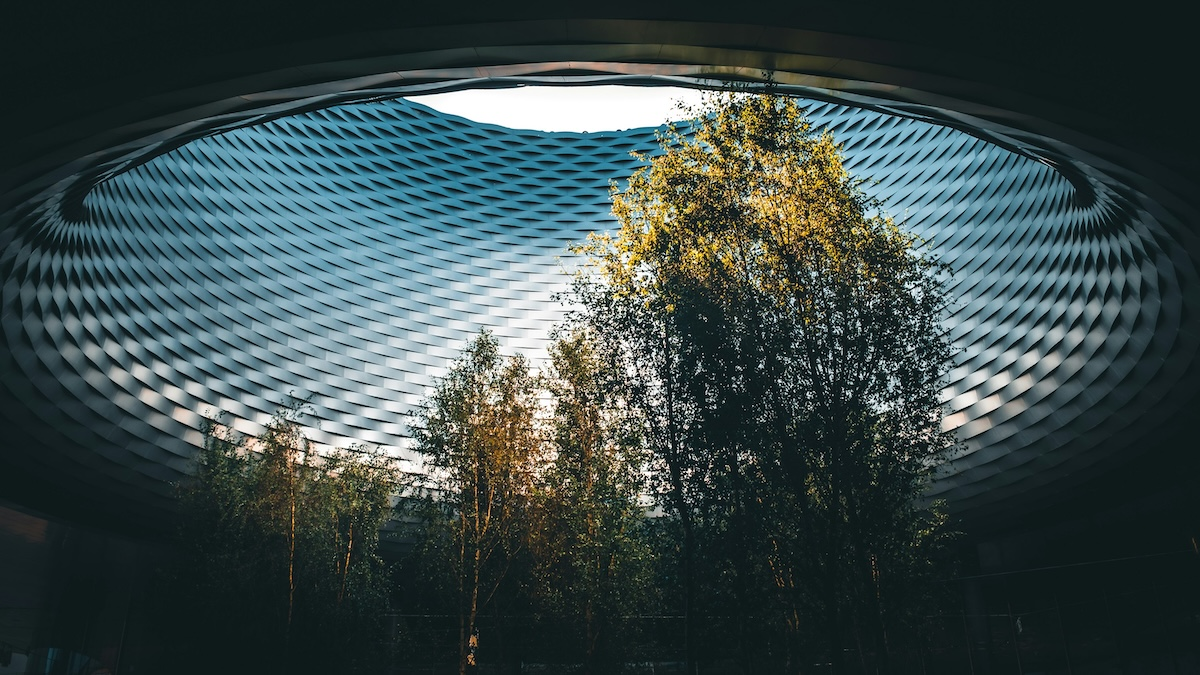
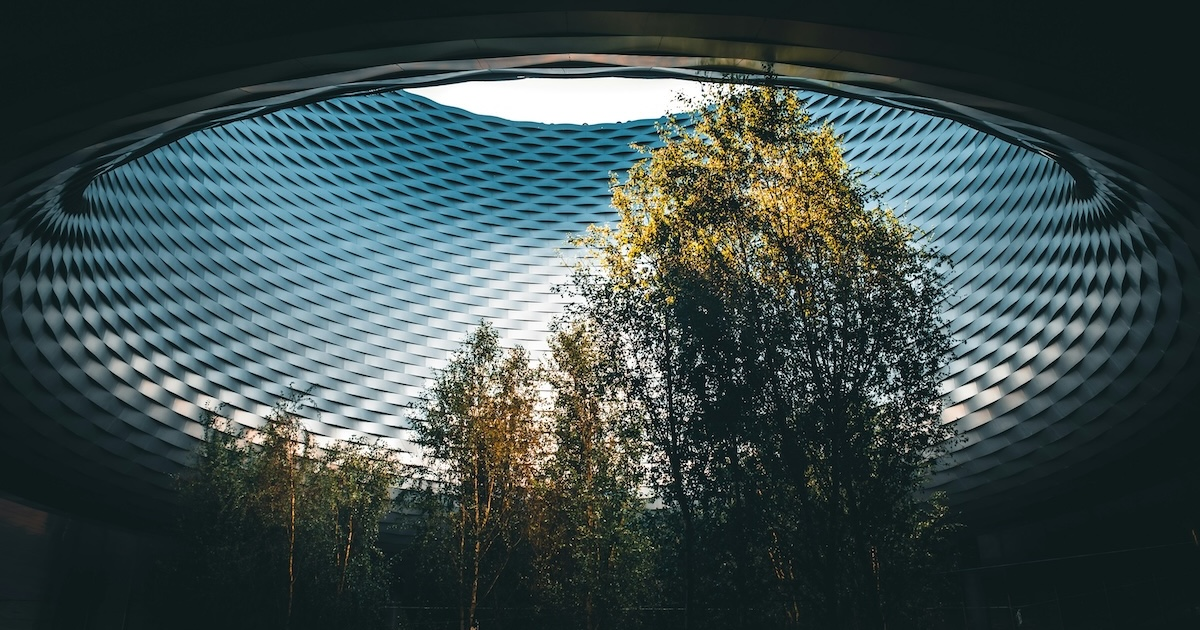
image testing

diff --git a/_posts/2026-09-03-agent-sandboxing.md b/_posts/2026-09-03-agent-sandboxing.md
@@ -8,7 +8,7 @@ image:
   path: /assets/images/banners/2026-09-03.jpg
   alt: header
 header:
-  og_image: /assets/images/banners/2026-09-03.jpg?v=3
+  og_image: /assets/images/banners/2026-09-03.jpg
 ---
 
 [![sandbox](/assets/images/banners/2026-09-03.jpg)](https://unsplash.com/photos/green-leafed-trees-HrJSHoY9NG4)
